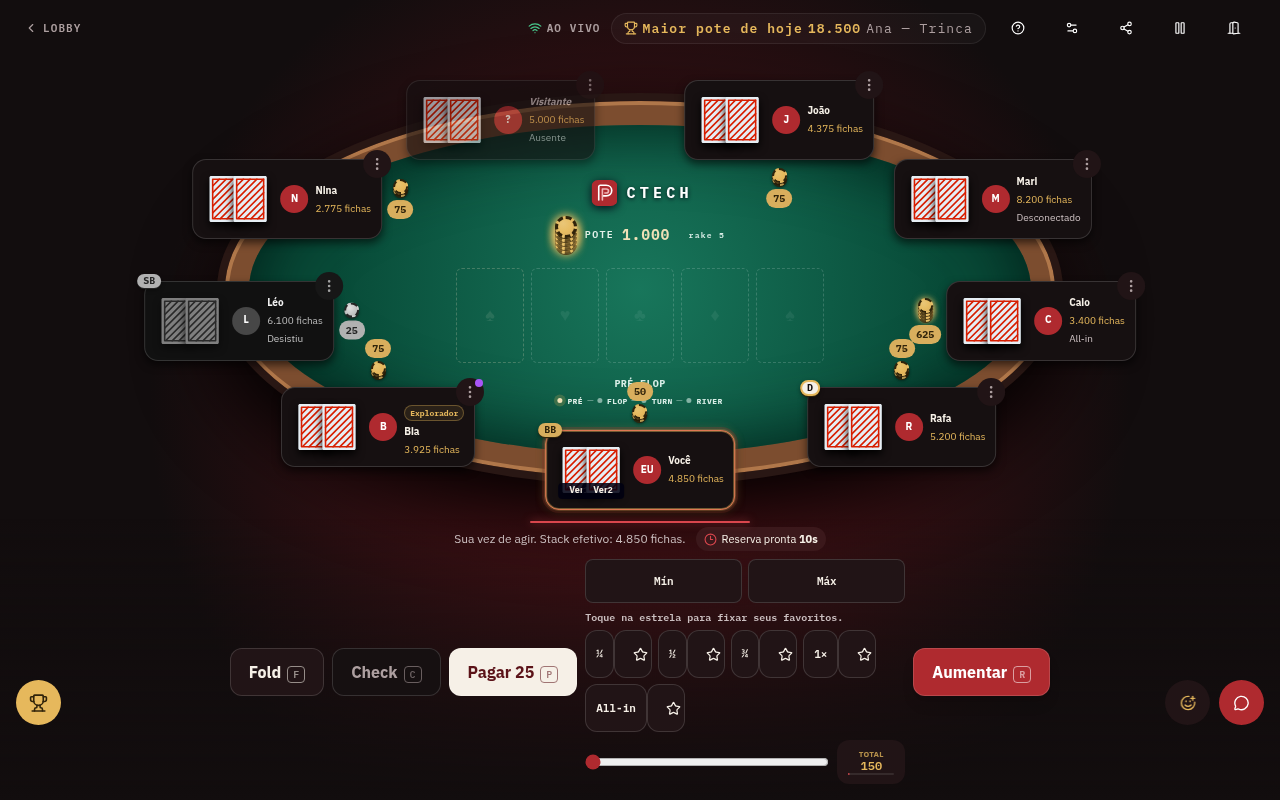
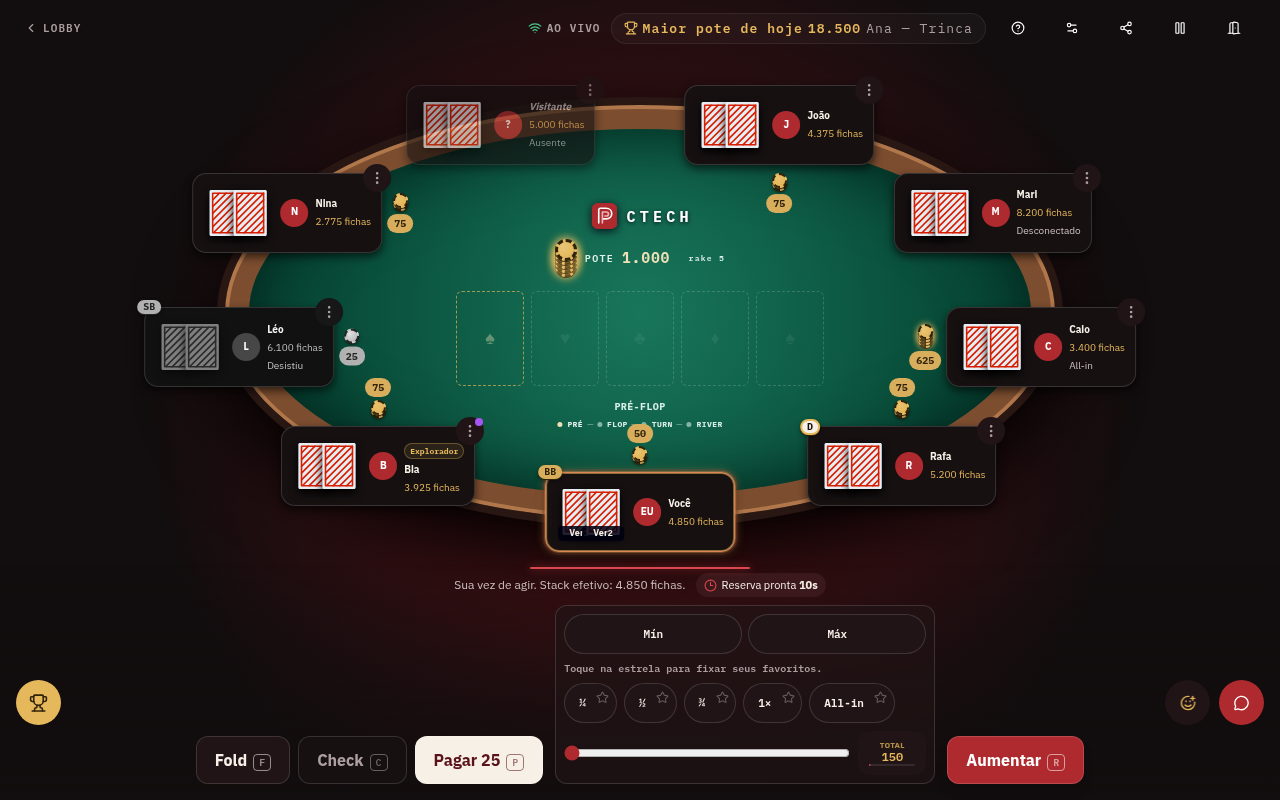
fix: fixed ui ussies

diff --git a/ui/src/app/(app)/table/table.css b/ui/src/app/(app)/table/table.css
@@ -44,41 +44,91 @@
     font-size: var(--font-size-compact);
     color: var(--text-secondary)
 }
+/* Quick presets sit directly under the server ⅓/½/⅔ row and read as one
+   preset cluster with it. Favouriting is a corner badge on each pill, not a
+   second segmented button per pill (#341 shipped that; it doubled the item
+   count and left the row a wall of outlined stars). The badge stays faint
+   until hover/focus or once pinned, so an unpinned row is just clean pills. */
 .bet-quick-presets {
     grid-column: 1 / -1;
     display: flex;
     flex-wrap: wrap;
     align-items: center;
-    gap: 6px
+    gap: 7px
 }
 .bet-quick-presets-hint {
-    margin: 0;
+    flex-basis: 100%;
+    margin: 0 0 1px;
     font-size: var(--font-size-tiny);
-    color: var(--text-secondary)
+    color: var(--muted)
 }
 .bet-quick-preset {
-    display: inline-flex;
-    align-items: stretch;
-    border-radius: var(--rounded-sm);
-    overflow: hidden
+    position: relative;
+    display: inline-flex
 }
-.bet-quick-preset button:first-child {
+.bet-quick-preset .bet-quick-preset-pick {
     min-height: 40px;
-    padding: 2px 10px;
-    font: 600 var(--font-size-compact) var(--font-mono)
+    /* right padding reserves the badge's corner so the longest label
+       ("All-in") never sits under the star */
+    padding: 2px 30px 2px 14px;
+    white-space: nowrap;
+    font: 600 var(--font-size-compact) var(--font-mono);
+    border-radius: var(--rounded-pill)
 }
-.bet-quick-preset-favorite {
+.bet-quick-preset[data-pinned] .bet-quick-preset-pick {
+    border-color: color-mix(in srgb, var(--gold) 55%, transparent);
+    color: var(--gold)
+}
+/* 24x24 hit target (WCAG 2.5.8); the star glyph itself stays small via svg size */
+.action-bar .bet-quick-preset-favorite {
+    position: absolute;
+    top: 2px;
+    right: 2px;
     display: grid;
     place-items: center;
-    width: 32px;
-    min-height: 40px
+    width: 24px;
+    min-width: 0;
+    height: 24px;
+    min-height: 0;
+    padding: 0;
+    border: 0;
+    border-radius: var(--rounded-pill);
+    background: transparent;
+    color: var(--muted);
+    opacity: .4;
+    transition: opacity 140ms var(--ease-out-quart), color 140ms var(--ease-out-quart), transform 140ms var(--ease-out-quart)
 }
-.bet-quick-preset-favorite svg {
-    width: 15px;
-    height: 15px
+.action-bar .bet-quick-preset-favorite svg {
+    width: 12px;
+    height: 12px
 }
-.bet-quick-preset-favorite[aria-pressed='true'] svg {
+.bet-quick-preset:hover .bet-quick-preset-favorite,
+.bet-quick-preset:focus-within .bet-quick-preset-favorite,
+.bet-quick-preset[data-pinned] .bet-quick-preset-favorite {
+    opacity: 1
+}
+.bet-quick-preset[data-pinned] .bet-quick-preset-favorite {
     color: var(--gold)
+}
+.action-bar .bet-quick-preset-favorite:hover {
+    transform: scale(1.15)
+}
+@media (hover: none), (pointer: coarse) {
+    .action-bar .bet-quick-preset-favorite {
+        opacity: .5
+    }
+    .action-bar .bet-quick-preset-favorite svg {
+        width: 13px;
+        height: 13px
+    }
+}
+@media (prefers-reduced-motion: reduce) {
+    .action-bar .bet-quick-preset-favorite {
+        transition: color 140ms var(--ease-out-quart)
+    }
+    .action-bar .bet-quick-preset-favorite:hover {
+        transform: none
+    }
 }
 .reality-check-title {
     display: inline-flex;

diff --git a/ui/src/components/table/ActionBar.tsx b/ui/src/components/table/ActionBar.tsx
@@ -282,17 +282,20 @@ function QuickPresetRow({pot, minRaise, maxRaise, raiseStep, disabled, favorites
   if (maxRaise < minRaise) return null;
   return <div className="bet-quick-presets" role="group" aria-label="Presets rápidos de aposta">
     {!favorites.length && <p className="bet-quick-presets-hint">Toque na estrela para fixar seus favoritos.</p>}
-    {visible.map(preset => <span key={preset.id} className="bet-quick-preset">
-      <button type="button" disabled={disabled}
-              aria-label={`Preset ${preset.label}: aumentar para ${preset.value.toLocaleString('pt-BR')}`}
-              onClick={() => onPick(preset.value)}>{preset.label}</button>
-      <button type="button" className="bet-quick-preset-favorite" disabled={favoritesSaving}
-              aria-pressed={favorites.includes(preset.id)}
-              aria-label={`${favorites.includes(preset.id) ? 'Remover' : 'Marcar'} ${preset.label} dos favoritos`}
-              onClick={() => onToggleFavorite(preset.id)}>
-        <Star aria-hidden="true" fill={favorites.includes(preset.id) ? 'currentColor' : 'none'}/>
-      </button>
-    </span>)}
+    {visible.map(preset => {
+      const pinned = favorites.includes(preset.id);
+      return <span key={preset.id} className="bet-quick-preset" data-pinned={pinned || undefined}>
+        <button type="button" className="bet-quick-preset-pick" disabled={disabled}
+                aria-label={`Preset ${preset.label}: aumentar para ${preset.value.toLocaleString('pt-BR')}`}
+                onClick={() => onPick(preset.value)}>{preset.label}</button>
+        <button type="button" className="bet-quick-preset-favorite" disabled={favoritesSaving}
+                aria-pressed={pinned}
+                aria-label={`${pinned ? 'Remover' : 'Marcar'} ${preset.label} dos favoritos`}
+                onClick={() => onToggleFavorite(preset.id)}>
+          <Star aria-hidden="true" fill={pinned ? 'currentColor' : 'none'}/>
+        </button>
+      </span>;
+    })}
   </div>;
 }
 

diff --git a/ui/src/app/(app)/app.css b/ui/src/app/(app)/app.css
@@ -1511,9 +1511,13 @@
     position: relative;
     z-index: 10;
     display: grid;
-    grid-template-columns:auto minmax(190px, 320px) auto;
-    gap: 8px;
-    align-items: center;
+    grid-template-columns:auto minmax(268px, 380px) auto;
+    gap: 8px 12px;
+    /* end, not center: the sizing column is several rows tall, so centring the
+       Fold/Check/Pagar cluster and Aumentar against its midpoint left them
+       floating with air above and below and the slider stranded at the bottom.
+       Bottom-aligning ties all three clusters to the same baseline. */
+    align-items: end;
     justify-content: center;
     padding: 9px max(15px, env(safe-area-inset-right)) max(16px, env(safe-area-inset-bottom)) max(15px, env(safe-area-inset-left));
     background: linear-gradient(transparent, var(--table-room))
@@ -1639,6 +1643,10 @@
     grid-template-columns:minmax(112px, 1fr) 68px;
     align-items: center;
     gap: 8px;
+    padding: 8px;
+    border: 1px solid var(--control-border);
+    border-radius: var(--rounded-control);
+    background: color-mix(in srgb, var(--surface-control) 70%, transparent);
     color: var(--gold);
     font: 600 12px var(--font-mono)
 }
@@ -1719,10 +1727,10 @@
 }
 .action-bar .bet-presets button {
     flex: 1;
-    min-height: 44px;
+    min-height: 40px;
     padding: 2px 8px;
     font: 600 var(--font-size-compact) var(--font-mono);
-    border-radius: var(--rounded-sm)
+    border-radius: var(--rounded-pill)
 }
 .action-bar kbd {
     margin-left: 6px;
@@ -3645,12 +3653,14 @@
     }
 .bet-control {
         grid-template-columns: 1fr;
-        gap: 6px
+        gap: 6px;
+        padding: 6px
     }
 .bet-stepper {
         display: grid;
-        grid-template-columns: 52px minmax(0, 1fr) 52px;
-        gap: 6px
+        grid-template-columns: 52px minmax(96px, 148px) 52px;
+        justify-content: center;
+        gap: 8px
     }
 .action-bar .bet-step-button {
         display: grid;

diff --git a/ui/docs/2026-09-05-action-bar-raise-sizing-polish.md b/ui/docs/2026-09-05-action-bar-raise-sizing-polish.md
@@ -1,0 +1,40 @@
+# Action bar — raise sizing polish (2026-09-05)
+
+Visual pass over `RaiseControl` / `QuickPresetRow` in `src/components/table/ActionBar.tsx`.
+No behaviour, wire, or copy change — the favourite lifecycle, keyboard shortcuts, clamp
+dedup and preselection are untouched.
+
+## What changed
+
+- **Favourite affordance is a corner badge, not a segmented button.** #341/#362 rendered a
+  full-height star button welded to the right of every quick-preset pill, doubling the item
+  count and leaving the row a wall of outlined stars. The star is now a small absolutely-
+  positioned toggle in each pill's top-right corner (`.bet-quick-preset-favorite`, scoped
+  under `.action-bar` so it beats the base `.action-bar button` box model). It sits at
+  `opacity: .4` (`.5` on coarse pointers, where there is no hover to reveal it) and goes
+  full-opacity gold on hover / `:focus-within` / once pinned; a pinned pill also gets a gold
+  border + label via `[data-pinned]`. `aria-pressed` and the `Marcar/Remover … dos favoritos`
+  labels are unchanged, so the guide copy ("toque na estrela…") still holds.
+- **Quick-preset pills** are pill-shaped (`--rounded-pill`), `white-space: nowrap` (kills the
+  "All-\nin" wrap on narrow phones), with right padding reserving the badge corner.
+- **The server ⅓/½/⅔ row** (`.bet-presets`) now matches: `--rounded-pill`, 40px min-height, so
+  the two preset rows read as one cluster instead of two mismatched bands.
+- **`.bet-control` is a contained panel** — 1px border, `--rounded-control`, faint
+  `surface-control` tint — so the presets, slider, stepper and total read as one control
+  rather than fragments floating in the middle grid column.
+- **Desktop `.action-bar` grid**: middle track widened to `minmax(268px, 380px)` (quick
+  presets fit on one line) and `align-items: end` so Fold/Check/Pagar and Aumentar sit on the
+  same baseline as the slider instead of centring against the tall sizing column.
+- **Portrait stepper** (`−  TOTAL  +`) is centre-grouped instead of spread edge-to-edge.
+
+## Known redundancy (not addressed here)
+
+`.bet-presets` (Mín / ½ pote / Pote / Máx) and `QuickPresetRow` (¼ / ½ / ¾ / 1× / All-in)
+overlap heavily — ½ pote ≈ ½, Pote ≈ 1×, Máx ≈ All-in. Only ¼, ¾ and favouriting are
+genuinely additive. Collapsing the two into one row is a behaviour/guide/test change, out of
+scope for a polish pass.
+
+## Screenshots
+
+`npm run og:capture -- --guide` re-captured `public/guide/table-preflop.webp` and
+`table-flop.webp` (the two guide shots where the sizing UI is on screen).
